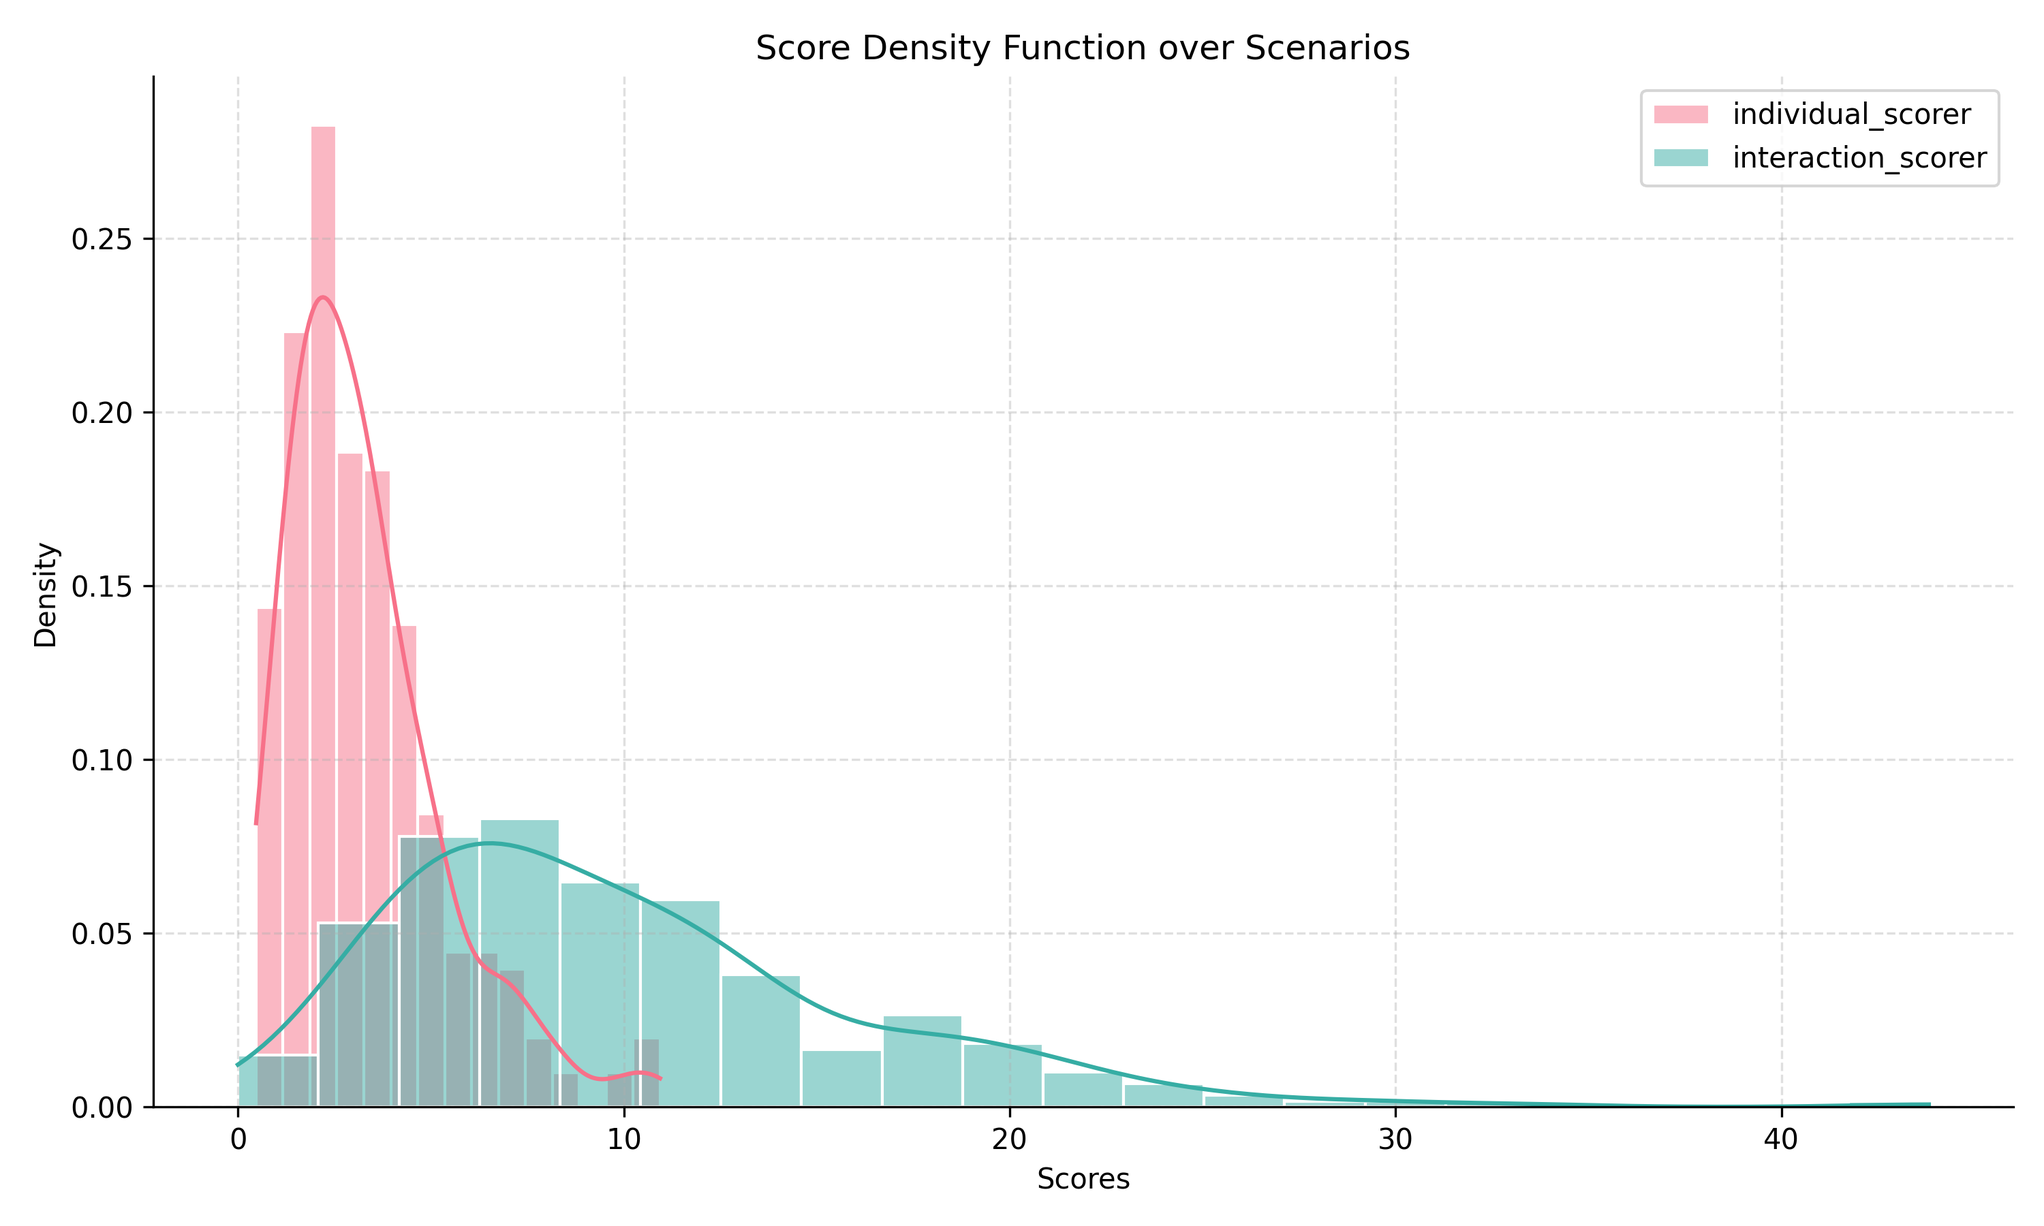
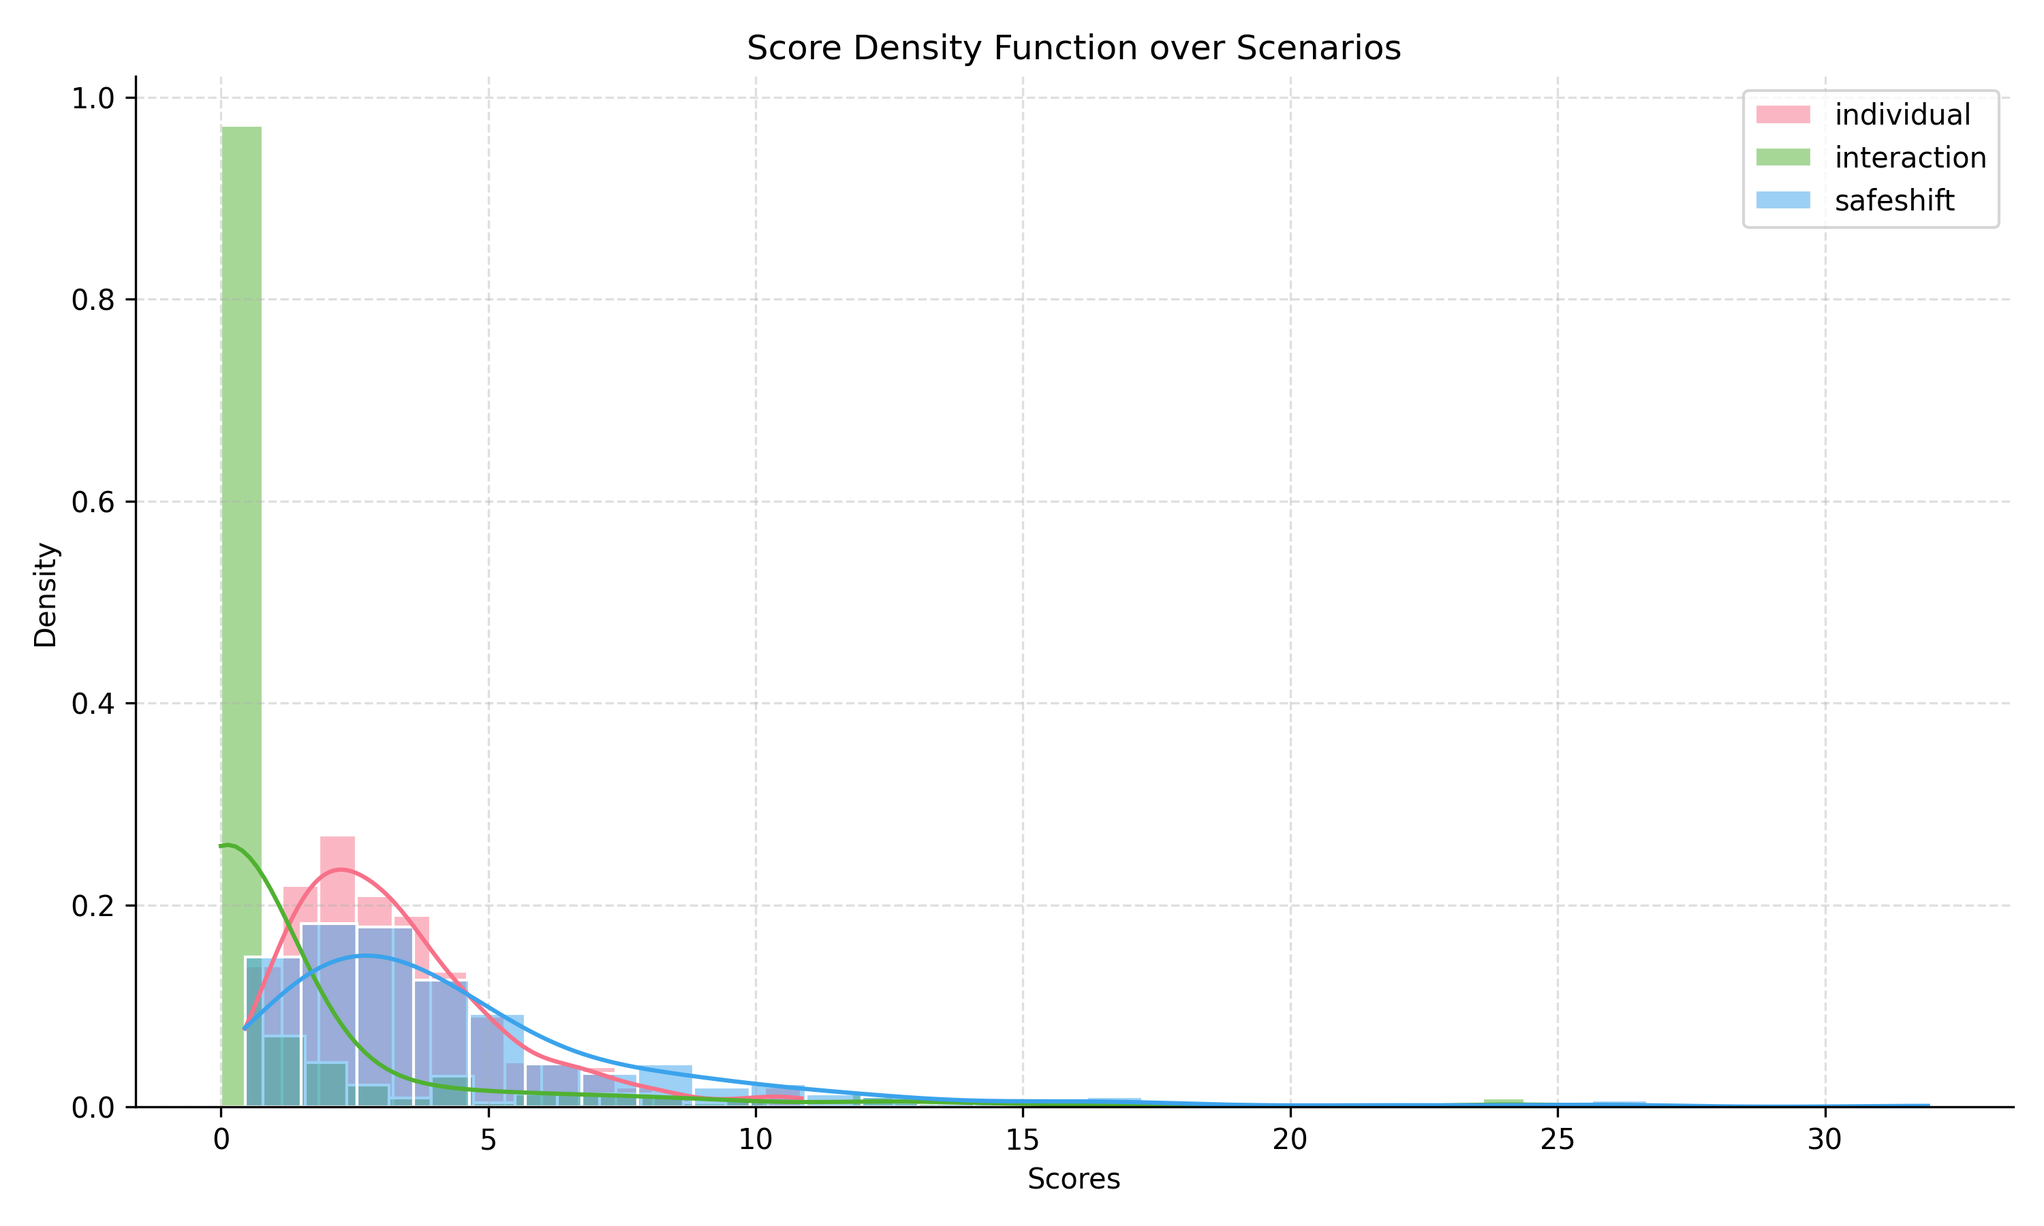
Added simple safeshift score

diff --git a/src/characterization/scorer/safeshift_scorer.py b/src/characterization/scorer/safeshift_scorer.py
@@ -1,0 +1,155 @@
+import numpy as np
+from omegaconf import DictConfig
+
+from characterization.features.interaction_features import InteractionStatus
+from characterization.scorer import (
+    INDIVIDUAL_SCORE_FUNCTIONS,
+    INTERACTION_SCORE_FUNCTIONS,
+)
+from characterization.scorer.base_scorer import BaseScorer
+from characterization.utils.common import EPS, get_logger
+from characterization.utils.schemas import Scenario, ScenarioFeatures, ScenarioScores
+
+logger = get_logger(__name__)
+
+
+class SafeShiftScorer(BaseScorer):
+    def __init__(self, config: DictConfig) -> None:
+        """Initializes the SafeShiftScorer with a configuration.
+
+        Args:
+            config (DictConfig): Configuration for the scorer.
+        """
+        super(SafeShiftScorer, self).__init__(config)
+
+        if self.config.individual_score_function not in INDIVIDUAL_SCORE_FUNCTIONS:
+            raise ValueError(
+                f"Score function {self.config.individual_score_function} not supported. "
+                f"Supported functions are: {list(INDIVIDUAL_SCORE_FUNCTIONS.keys())}"
+            )
+        self.individual_score_function = INDIVIDUAL_SCORE_FUNCTIONS[self.config.individual_score_function]
+
+        if self.config.interaction_score_function not in INTERACTION_SCORE_FUNCTIONS:
+            raise ValueError(
+                f"Score function {self.config.interaction_score_function} not supported. "
+                f"Supported functions are: {list(INTERACTION_SCORE_FUNCTIONS.keys())}"
+            )
+        self.interaction_score_function = INTERACTION_SCORE_FUNCTIONS[self.config.interaction_score_function]
+
+    def aggregate_simple_interaction_score(self, **kwargs) -> np.ndarray:
+        """Aggregates a simple interaction score for an agent pair using weighted feature values.
+
+        Args:
+            **kwargs: Feature values for the agent pair, including collision and mttcp.
+
+        Returns:
+            np.ndarray: The aggregated score for the agent pair.
+        """
+        collision = kwargs.get("collision", 0.0)
+        mttcp = kwargs.get("mttcp", 0.0)
+        inv_mttcp = 1.0 / (mttcp + EPS)
+        return self.weights.collision * collision + self.weights.mttcp * min(self.detections.mttcp, inv_mttcp)
+
+    def compute(self, scenario: Scenario, scenario_features: ScenarioFeatures) -> ScenarioScores:
+        """Computes interaction scores for agent pairs and a scene-level score from scenario features.
+
+        Args:
+            scenario (Scenario): Scenario object containing scenario information.
+            scenario_features (ScenarioFeatures): ScenarioFeatures object containing computed features.
+
+        Returns:
+            ScenarioScores: An object containing computed interaction agent-pair scores and the scene-level score.
+
+        Raises:
+            ValueError: If any required feature (agent_to_agent_closest_dists, interaction_agent_indices,
+                interaction_status, collision, mttcp) is missing in scenario_features.
+        """
+        # TODO: need to avoid a lot of recomputations from the two types of features
+        # TODO: avoid these checks.
+        if scenario_features.valid_idxs is None:
+            raise ValueError("valid_idxs must not be None")
+        if scenario_features.speed is None:
+            raise ValueError("speed must not be None")
+        if scenario_features.acceleration is None:
+            raise ValueError("acceleration must not be None")
+        if scenario_features.deceleration is None:
+            raise ValueError("deceleration must not be None")
+        if scenario_features.jerk is None:
+            raise ValueError("jerk must not be None")
+        if scenario_features.waiting_period is None:
+            raise ValueError("waiting_period must not be None")
+        if scenario_features.agent_to_agent_closest_dists is None:
+            raise ValueError("agent_to_agent_closest_dists must not be None")
+        if scenario_features.interaction_agent_indices is None:
+            raise ValueError("interaction_agent_indices must not be None")
+        if scenario_features.interaction_status is None:
+            raise ValueError("interaction_status must not be None")
+        if scenario_features.collision is None:
+            raise ValueError("collision must not be None")
+        if scenario_features.mttcp is None:
+            raise ValueError("mttcp must not be None")
+
+        # Get the agent weights
+        weights = self.get_weights(scenario, scenario_features)
+
+        # Compute the individual scores
+        scores_ind = np.zeros(shape=(scenario.num_agents,), dtype=np.float32)
+        valid_idxs = scenario_features.valid_idxs
+        N = valid_idxs.shape[0]
+        for n in range(N):
+            # TODO: fix this indexing issue.
+            valid_idx = valid_idxs[n]
+            scores_ind[valid_idx] = weights[valid_idx] * self.individual_score_function(
+                speed=scenario_features.speed[n],
+                speed_weight=self.weights.speed,
+                speed_detection=self.detections.speed,
+                acceleration=scenario_features.acceleration[n],
+                acceleration_weight=self.weights.acceleration,
+                acceleration_detection=self.detections.acceleration,
+                deceleration=scenario_features.deceleration[n],
+                deceleration_weight=self.weights.deceleration,
+                deceleration_detection=self.detections.deceleration,
+                jerk=scenario_features.jerk[n],
+                jerk_weight=self.weights.jerk,
+                jerk_detection=self.detections.jerk,
+                waiting_period=scenario_features.waiting_period[n],
+                waiting_period_weight=self.weights.waiting_period,
+                waiting_period_detection=self.detections.waiting_period,
+            )
+        denom_ind = max(np.where(scores_ind > 0.0)[0].shape[0], 1)
+
+        # Compute the interaction scores
+        scores_int = np.zeros(shape=(scenario.num_agents,), dtype=np.float32)
+        interaction_agent_indices = scenario_features.interaction_agent_indices
+        for n, (i, j) in enumerate(interaction_agent_indices):
+            status = scenario_features.interaction_status[n]
+            if status != InteractionStatus.COMPUTED_OK:
+                continue
+
+            # Compute the agent-pair scores
+            agent_pair_score = self.interaction_score_function(
+                collision=scenario_features.collision[n],
+                collision_weight=self.weights.collision,
+                mttcp=scenario_features.mttcp[n],
+                mttcp_weight=self.weights.mttcp,
+                mttcp_detection=self.detections.mttcp,
+            )
+            scores_int[i] += weights[i] * agent_pair_score
+            scores_int[j] += weights[j] * agent_pair_score
+        denom_int = max(np.where(scores_int > 0.0)[0].shape[0], 1)
+
+        # Normalize the scores
+        # scores = scores_ind + scores_int
+        # scene_score = (scores_ind.sum() / denom_ind) + (scores_int.sum() / denom_int)
+        # scene_score = np.clip(scene_score, a_min=self.score_clip.min, a_max=self.score_clip.max)
+        scores = scores_ind.copy() + scores_int.copy()
+        scene_score_ind = scores_ind.sum() / denom_ind
+        scene_score_int = scores_int.sum() / denom_int
+        scene_score = scene_score_int.copy() + scene_score_ind.copy()
+        scene_score = np.clip(scene_score, a_min=self.score_clip.min, a_max=self.score_clip.max)
+        return ScenarioScores(
+            scenario_id=scenario.scenario_id,
+            num_agents=scenario.num_agents,
+            safeshift_agent_scores=scores,
+            safeshift_scene_score=scene_score,
+        )

diff --git a/src/characterization/scorer/individual_scorer.py b/src/characterization/scorer/individual_scorer.py
@@ -1,6 +1,7 @@
 import numpy as np
 from omegaconf import DictConfig
 
+from characterization.scorer import INDIVIDUAL_SCORE_FUNCTIONS
 from characterization.scorer.base_scorer import BaseScorer
 from characterization.utils.common import get_logger
 from characterization.utils.schemas import Scenario, ScenarioFeatures, ScenarioScores
@@ -17,29 +18,12 @@ class IndividualScorer(BaseScorer):
         """
         super(IndividualScorer, self).__init__(config)
 
-    def aggregate_simple_score(self, **kwargs) -> np.ndarray:
-        """Aggregates a simple score for an agent using weighted feature values.
-
-        Args:
-            **kwargs: Feature values for the agent, including speed, acceleration, deceleration,
-                jerk, and waiting_period.
-
-        Returns:
-            np.ndarray: The aggregated score for the agent.
-        """
-        # Detection values are roughly obtained from: https://arxiv.org/abs/2202.07438
-        speed = kwargs.get("speed", 0.0)
-        acceleration = kwargs.get("acceleration", 0.0)
-        deceleration = kwargs.get("deceleration", 0.0)
-        jerk = kwargs.get("jerk", 0.0)
-        waiting_period = kwargs.get("waiting_period", 0.0)
-        return (
-            min(self.detections.speed, self.weights.speed * speed)
-            + min(self.detections.acceleration, self.weights.acceleration * acceleration)
-            + min(self.detections.deceleration, self.weights.deceleration * deceleration)
-            + min(self.detections.jerk, self.weights.jerk * jerk)
-            + min(self.detections.waiting_period, self.weights.waiting_period * waiting_period)
-        )
+        if self.config.individual_score_function not in INDIVIDUAL_SCORE_FUNCTIONS:
+            raise ValueError(
+                f"Score function {self.config.individual_score_function} not supported. "
+                f"Supported functions are: {list(INDIVIDUAL_SCORE_FUNCTIONS.keys())}"
+            )
+        self.score_function = INDIVIDUAL_SCORE_FUNCTIONS[self.config.individual_score_function]
 
     def compute(self, scenario: Scenario, scenario_features: ScenarioFeatures) -> ScenarioScores:
         """Computes individual agent scores and a scene-level score from scenario features.
@@ -78,12 +62,22 @@ class IndividualScorer(BaseScorer):
         for n in range(N):
             # TODO: fix this indexing issue.
             valid_idx = valid_idxs[n]
-            scores[valid_idx] = weights[valid_idx] * self.aggregate_simple_score(
+            scores[valid_idx] = weights[valid_idx] * self.score_function(
                 speed=scenario_features.speed[n],
+                speed_weight=self.weights.speed,
+                speed_detection=self.detections.speed,
                 acceleration=scenario_features.acceleration[n],
+                acceleration_weight=self.weights.acceleration,
+                acceleration_detection=self.detections.acceleration,
                 deceleration=scenario_features.deceleration[n],
+                deceleration_weight=self.weights.deceleration,
+                deceleration_detection=self.detections.deceleration,
                 jerk=scenario_features.jerk[n],
+                jerk_weight=self.weights.jerk,
+                jerk_detection=self.detections.jerk,
                 waiting_period=scenario_features.waiting_period[n],
+                waiting_period_weight=self.weights.waiting_period,
+                waiting_period_detection=self.detections.waiting_period,
             )
 
         # Normalize the scores

diff --git a/src/characterization/scorer/interaction_scorer.py b/src/characterization/scorer/interaction_scorer.py
@@ -2,8 +2,9 @@ import numpy as np
 from omegaconf import DictConfig
 
 from characterization.features.interaction_features import InteractionStatus
+from characterization.scorer import INTERACTION_SCORE_FUNCTIONS
 from characterization.scorer.base_scorer import BaseScorer
-from characterization.utils.common import EPS, get_logger
+from characterization.utils.common import get_logger
 from characterization.utils.schemas import Scenario, ScenarioFeatures, ScenarioScores
 
 logger = get_logger(__name__)
@@ -18,19 +19,12 @@ class InteractionScorer(BaseScorer):
         """
         super(InteractionScorer, self).__init__(config)
 
-    def aggregate_simple_score(self, **kwargs) -> np.ndarray:
-        """Aggregates a simple interaction score for an agent pair using weighted feature values.
-
-        Args:
-            **kwargs: Feature values for the agent pair, including collision and mttcp.
-
-        Returns:
-            np.ndarray: The aggregated score for the agent pair.
-        """
-        collision = kwargs.get("collision", 0.0)
-        mttcp = kwargs.get("mttcp", 0.0)
-        inv_mttcp = 1.0 / (mttcp + EPS)
-        return self.weights.collision * collision + self.weights.mttcp * min(self.detections.mttcp, inv_mttcp)
+        if self.config.interaction_score_function not in INTERACTION_SCORE_FUNCTIONS:
+            raise ValueError(
+                f"Score function {self.config.interaction_score_function} not supported. "
+                f"Supported functions are: {list(INTERACTION_SCORE_FUNCTIONS.keys())}"
+            )
+        self.score_function = INTERACTION_SCORE_FUNCTIONS[self.config.interaction_score_function]
 
     def compute(self, scenario: Scenario, scenario_features: ScenarioFeatures) -> ScenarioScores:
         """Computes interaction scores for agent pairs and a scene-level score from scenario features.
@@ -70,9 +64,12 @@ class InteractionScorer(BaseScorer):
                 continue
 
             # Compute the agent-pair scores
-            agent_pair_score = self.aggregate_simple_score(
+            agent_pair_score = self.score_function(
                 collision=scenario_features.collision[n],
+                collision_weight=self.weights.collision,
                 mttcp=scenario_features.mttcp[n],
+                mttcp_weight=self.weights.mttcp,
+                mttcp_detection=self.detections.mttcp,
             )
             scores[i] += weights[i] * agent_pair_score
             scores[j] += weights[j] * agent_pair_score

diff --git a/src/characterization/scorer/score_utils.py b/src/characterization/scorer/score_utils.py
@@ -1,0 +1,58 @@
+import numpy as np
+
+from characterization.utils.common import EPS
+
+
+def simple_individual_score(
+    speed: float = 0.0,
+    speed_weight: float = 1.0,
+    speed_detection: float = 1.0,
+    acceleration: float = 0.0,
+    acceleration_weight: float = 1.0,
+    acceleration_detection: float = 1.0,
+    deceleration: float = 0.0,
+    deceleration_weight: float = 1.0,
+    deceleration_detection: float = 1.0,
+    jerk: float = 0.0,
+    jerk_weight: float = 1.0,
+    jerk_detection: float = 1.0,
+    waiting_period: float = 0.0,
+    waiting_period_weight: float = 1.0,
+    waiting_period_detection: float = 1.0,
+) -> np.ndarray:
+    """Aggregates a simple score for an agent using weighted feature values.
+
+    Args:
+        **kwargs: Feature values for the agent, including speed, acceleration, deceleration,
+            jerk, and waiting_period.
+
+    Returns:
+        np.ndarray: The aggregated score for the agent.
+    """
+    # Detection values are roughly obtained from: https://arxiv.org/abs/2202.07438
+    return (
+        speed_weight * min(speed_detection, speed)
+        + acceleration_weight * min(acceleration_detection, acceleration)
+        + deceleration_weight * min(deceleration_detection, deceleration)
+        + jerk_weight * min(jerk_detection, jerk)
+        + waiting_period_weight * min(waiting_period_detection, waiting_period)
+    )
+
+
+def simple_interaction_score(
+    collision: float = 0.0,
+    collision_weight: float = 1.0,
+    mttcp: float = 0.0,
+    mttcp_weight: float = 1.0,
+    mttcp_detection: float = 1.0,
+) -> np.ndarray:
+    """Aggregates a simple interaction score for an agent pair using weighted feature values.
+
+    Args:
+        **kwargs: Feature values for the agent pair, including collision and mttcp.
+
+    Returns:
+        np.ndarray: The aggregated score for the agent pair.
+    """
+    inv_mttcp = 1.0 / (mttcp + EPS)
+    return collision_weight * collision + mttcp_weight * min(mttcp_detection, inv_mttcp)

diff --git a/src/characterization/utils/common.py b/src/characterization/utils/common.py
@@ -119,11 +119,16 @@ def to_pickle(output_path: str, input_data: dict, tag: str) -> None:
         with open(data_file, "rb") as f:
             data = pickle.load(f)  # nosec B301
 
+    if data["scenario_id"] != input_data["scenario_id"]:
+        raise AttributeError("Mismatched scenario IDs when merging pickle data.")
+
     # NOTE: with current ScenarioScores and ScenarioFeatures implementation, computing interaction and individual
     # features will cause overrides. Need to address this better in the future.
     for key, value in input_data.items():
-        if key in data and data[key] is not None:
+        if value is None:
             continue
+        # if key in data and data[key] is not None:
+        #     continue
         data[key] = value
 
     with open(data_file, "wb") as f:

diff --git a/src/characterization/scorer/__init__.py b/src/characterization/scorer/__init__.py
@@ -1,1 +1,13 @@
-SUPPORTED_SCORERS = ["individual", "interaction"]
+from characterization.scorer.score_utils import (
+    simple_individual_score,
+    simple_interaction_score,
+)
+
+SUPPORTED_SCORERS = ["individual", "interaction", "safeshift"]
+
+INDIVIDUAL_SCORE_FUNCTIONS = {
+    "simple": simple_individual_score,
+}
+INTERACTION_SCORE_FUNCTIONS = {
+    "simple": simple_interaction_score,
+}

diff --git a/src/characterization/utils/schemas.py b/src/characterization/utils/schemas.py
@@ -119,8 +119,8 @@ class ScenarioScores(BaseModel):
     interaction_scene_score: float | None = None
 
     # Combined Scores
-    combined_agent_scores: Float32NDArray1D | None = None
-    combined_scene_score: float | None = None
+    safeshift_agent_scores: Float32NDArray1D | None = None
+    safeshift_scene_score: float | None = None
 
     model_config = {"arbitrary_types_allowed": True}
 

diff --git a/src/characterization/viz_scores_pdf.py b/src/characterization/viz_scores_pdf.py
@@ -149,6 +149,7 @@ def run(cfg: DictConfig) -> None:
             agent_scores[scorer].append(scenario_scores[key])
 
     scores_df = pd.DataFrame(scores)
+
     output_filepath = os.path.join(cfg.output_dir, "score_density_plot.png")
     plot_histograms_from_dataframe(scores_df, output_filepath, cfg.dpi)
 

diff --git a/docs/EXAMPLE.md b/docs/EXAMPLE.md
@@ -51,6 +51,7 @@ This will create a `./cache` directory containing temporary feature data:
 ```bash
 uv run -m characterization.run_processor processor=scores characterizer=individual_scores paths=test
 uv run -m characterization.run_processor processor=scores characterizer=interaction_scores paths=test
+uv run -m characterization.run_processor processor=scores characterizer=safeshift_scores paths=test
 ```
 
 This step uses the pre-computed features to generate per-agent and per-scenario scores, saved to `./cache/scores/gt_critical`.
